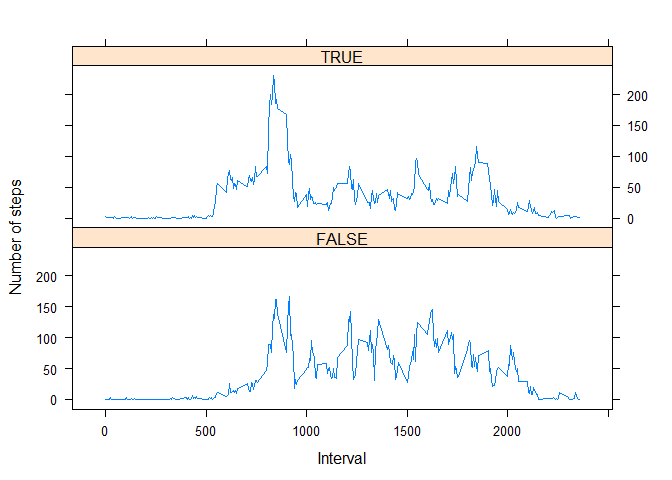
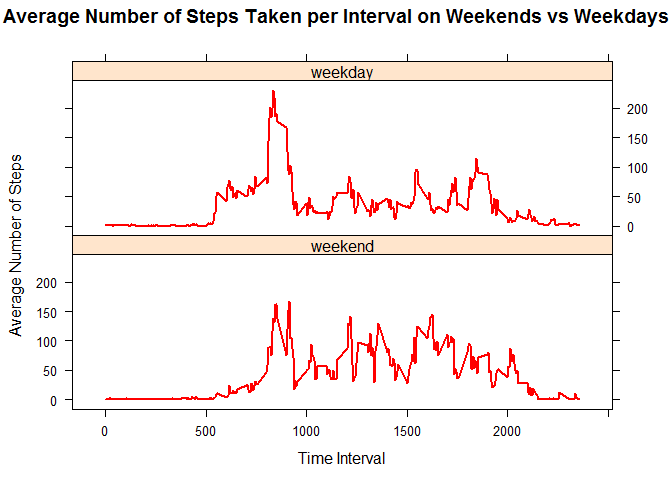
Project 1

diff --git a/PA1_template.html b/PA1_template.html
@@ -153,18 +153,19 @@ complete_activity[weekdays, ]$weekday &lt;- TRUE</code></pre>
 
 library(reshape2)
 steps_by_int_week &lt;- melt(steps_by_int_week, varnames=c(&quot;int&quot;, &quot;weekday&quot;))
+steps_by_int_week$weekday &lt;- factor(steps_by_int_week$weekday, labels=c(&quot;weekend&quot;, &quot;weekday&quot;))
 head(steps_by_int_week)</code></pre>
 <pre><code>##   int weekday       value
-## 1   0   FALSE 0.214622642
-## 2   5   FALSE 0.042452830
-## 3  10   FALSE 0.016509434
-## 4  15   FALSE 0.018867925
-## 5  20   FALSE 0.009433962
-## 6  25   FALSE 3.511792453</code></pre>
+## 1   0 weekend 0.214622642
+## 2   5 weekend 0.042452830
+## 3  10 weekend 0.016509434
+## 4  15 weekend 0.018867925
+## 5  20 weekend 0.009433962
+## 6  25 weekend 3.511792453</code></pre>
 <p>Create a plot containing a time series comparing weekday or weekend data in the new complete dataset.</p>
 <pre class="r"><code>library(lattice)
-xyplot(steps_by_int_week$value ~ steps_by_int_week$int | steps_by_int_week$weekday, type = &quot;l&quot;, layout = c(1, 2), xlab = &quot;Interval&quot;, ylab = &quot;Number of steps&quot;)</code></pre>
[1 lines of base64/hex data omitted]
+xyplot(steps_by_int_week$value ~ steps_by_int_week$int | steps_by_int_week$weekday, type=&quot;l&quot;, col=&quot;red&quot;, lwd=2, main=&quot;Average Number of Steps Taken per Interval on Weekends vs Weekdays&quot;, layout = c(1, 2), xlab = &quot;Time Interval&quot;, ylab = &quot;Average Number of Steps&quot;)</code></pre>
[1 lines of base64/hex data omitted]
 <p>From this we can discern a pattern such that more steps are taken on th weekend, but there is a higher concentration of steps in the morning during weekdays.</p>
 </div>
 

diff --git a/PA1_template.md b/PA1_template.md
@@ -222,17 +222,18 @@ steps_by_int_week <- tapply(complete_activity$steps, list(complete_activity$inte
 
 library(reshape2)
 steps_by_int_week <- melt(steps_by_int_week, varnames=c("int", "weekday"))
+steps_by_int_week$weekday <- factor(steps_by_int_week$weekday, labels=c("weekend", "weekday"))
 head(steps_by_int_week)
 ```
 
 ```
 ##   int weekday       value
-## 1   0   FALSE 0.214622642
-## 2   5   FALSE 0.042452830
-## 3  10   FALSE 0.016509434
-## 4  15   FALSE 0.018867925
-## 5  20   FALSE 0.009433962
-## 6  25   FALSE 3.511792453
+## 1   0 weekend 0.214622642
+## 2   5 weekend 0.042452830
+## 3  10 weekend 0.016509434
+## 4  15 weekend 0.018867925
+## 5  20 weekend 0.009433962
+## 6  25 weekend 3.511792453
 ```
 
 Create a plot containing a time series comparing weekday or weekend data in the new complete dataset. 
@@ -240,7 +241,7 @@ Create a plot containing a time series comparing weekday or weekend data in the 
 
 ```r
 library(lattice)
-xyplot(steps_by_int_week$value ~ steps_by_int_week$int | steps_by_int_week$weekday, type = "l", layout = c(1, 2), xlab = "Interval", ylab = "Number of steps")
+xyplot(steps_by_int_week$value ~ steps_by_int_week$int | steps_by_int_week$weekday, type="l", col="red", lwd=2, main="Average Number of Steps Taken per Interval on Weekends vs Weekdays", layout = c(1, 2), xlab = "Time Interval", ylab = "Average Number of Steps")
 ```
 
 ![](./PA1_template_files/figure-html/unnamed-chunk-18-1.png) 
